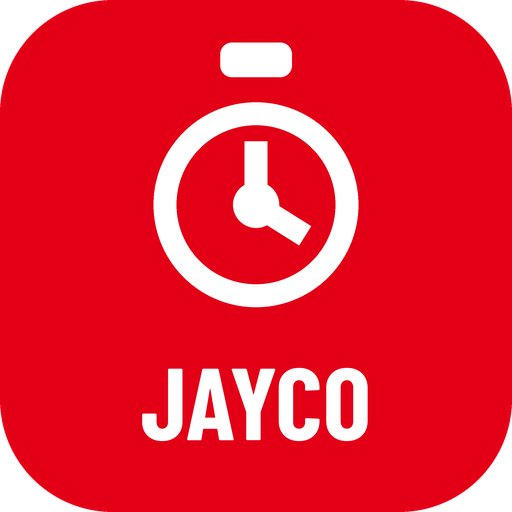
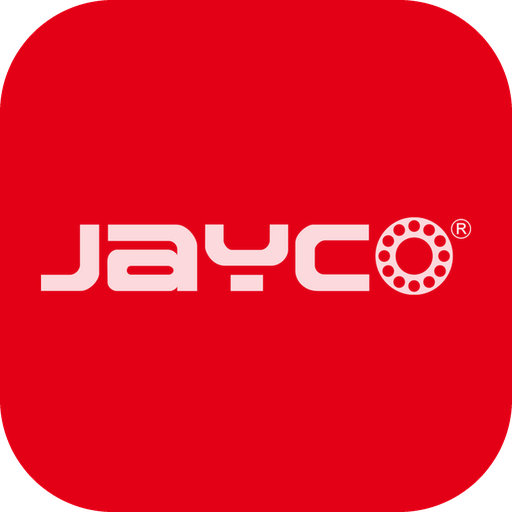
Add files via upload

Changed region(s): [[0.0625, 0.1875, 0.9375, 0.625], [0.25, 0.7188, 0.7188, 0.875], [0.4062, 0.0625, 0.5938, 0.1562]]

diff --git a/attendance.html b/attendance.html
@@ -48,7 +48,7 @@ h3{font-size:18px;margin:20px 0 8px;font-weight:600}
 .muted{color:var(--mute)}.small{font-size:13.5px}.err{color:var(--bad)}
 .wrap{max-width:560px;margin:0 auto;padding:18px 16px 110px}
 .top{position:sticky;top:0;z-index:5;background:var(--panel);display:flex;align-items:center;justify-content:space-between;gap:8px;padding:10px 16px;border-bottom:3px solid var(--red);box-shadow:0 2px 10px rgba(20,24,29,.05)}
-.brand{font-weight:700;font-size:28px;color:var(--red);letter-spacing:1.5px;line-height:1}
+.brand img{height:26px;width:auto;display:block}
 .brand small{display:block;color:var(--mute);font:500 13px var(--body);letter-spacing:0;margin-top:3px}
 .who{display:flex;gap:6px;flex-wrap:wrap;justify-content:flex-end}
 .chip{background:var(--panel);color:var(--ink);border:1px solid var(--line);border-radius:6px;padding:7px 11px;font:500 14px var(--body);cursor:pointer;text-decoration:none;display:inline-block}
@@ -128,7 +128,7 @@ tr.click{cursor:pointer}tr.click:hover td{background:#fafbfc}
 .work .muted{font-size:13px;display:block;margin-bottom:3px;white-space:normal}
 .authcard{max-width:440px;margin:0 auto;padding:24px 18px 60px}
 .authtop{display:flex;justify-content:space-between;align-items:flex-start}
-.hero-a{font-size:68px;line-height:.85;font-weight:700;color:var(--red);letter-spacing:3px}
+.hero-a img{width:200px;max-width:62vw;display:block}
 .seg{display:flex;border:1px solid var(--line);border-radius:8px;overflow:hidden;margin:18px 0;background:var(--panel)}
 .seg button{flex:1;padding:11px;background:none;border:0;color:var(--mute);font-size:18px;font-weight:600;cursor:pointer}
 .seg button.on{background:var(--red);color:#fff}
@@ -155,19 +155,28 @@ ol.help{padding-left:18px;margin:10px 0}
 .av{width:40px;height:40px;border-radius:50%;object-fit:cover;flex:none;background:var(--panel2)}
 .av.lg{width:88px;height:88px;border:3px solid var(--red)}
 .avrow{display:flex;gap:14px;align-items:center}
-@media (max-width:430px){.top{padding:8px 12px}.who{gap:4px;flex-wrap:nowrap}.who .chip{padding:6px 8px;font-size:13px}.brand{font-size:24px}}
+@media (max-width:430px){.top{padding:8px 12px}.who{gap:4px;flex-wrap:nowrap}.who .chip{padding:6px 8px;font-size:13px}.brand img{height:22px}}
 </style>
 </head>
 <body>
 <div id="app"></div>
 <div id="toast" role="status" aria-live="polite"></div>
 <script>
[1 lines of base64/hex data omitted]
+
 /* ============ CONFIG — edit these ============ */
 const CONFIG = {
   // Paste the firebaseConfig object from Firebase console here, e.g.
   // FIREBASE: { apiKey:"...", authDomain:"jayco-attendance.firebaseapp.com", projectId:"jayco-attendance", appId:"..." },
-  FIREBASE: null,
-  ADMIN_MOBILES: ['9999999999'],          // mobile numbers that get the Admin panel
+  FIREBASE: {
+    apiKey: "AIzaSyDpJYTyKGs_S4flJ1_8YeQ0eMahuMLglkc",
+    authDomain: "jayco-attendance.firebaseapp.com",
+    projectId: "jayco-attendance",
+    storageBucket: "jayco-attendance.firebasestorage.app",
+    messagingSenderId: "847137219439",
+    appId: "1:847137219439:web:939fd4f2e6aa3fe2187e9a"
+  },
+  ADMIN_MOBILES: ['9537254473'],          // mobile numbers that get the Admin panel
   EMAIL_DOMAIN: 'staff.jaycohousing.com', // internal login id = mobile@this-domain (no mail is sent)
   APP_URL: 'https://akashparjapati-jayco.github.io/jayco-portals/attendance.html'
 };
@@ -360,6 +369,7 @@ function errMsg(e) {
   if (c.includes('permission-denied')) return t('denied');
   if (c.includes('too-many-requests')) return t('tooMany');
   if (c.includes('weak-password')) return t('weak');
+  if (/api-key|app-deleted|invalid-api-key/.test(c)) return 'App setup error: the Firebase key is wrong. Send this message to the office.';
   return (e && e.message) || String(e);
 }
 function csv(name, rows) {
@@ -481,7 +491,7 @@ async function enter(u) {
     S.settings = { ...DEF, ...((await DB.settings()) || {}) };
   } catch (e) { toast(errMsg(e), 1); }
   if (!S.profile && !S.admin) {
-    $('#app').innerHTML = `<div class="authcard"><div class="hero-a">JAYCO</div><p class="err">${t('missingProfile')}</p><button class="btn" onclick="logout()">${t('logout')}</button></div>`;
+    $('#app').innerHTML = `<div class="authcard"><div class="hero-a"><img src="${LOGO}" alt="JAYCO"></div><p class="err">${t('missingProfile')}</p><button class="btn" onclick="logout()">${t('logout')}</button></div>`;
     return;
   }
   S.view = S.admin ? 'admin' : 'emp'; S.tab = 'today'; render();
@@ -492,7 +502,7 @@ function renderAuth() {
   clearInterval(S.timer);
   const reg = S.authMode === 'reg';
   $('#app').innerHTML = `<div class="authcard">
-    <div class="authtop"><div class="hero-a">JAYCO</div>${langChip()}</div>
+    <div class="authtop"><div class="hero-a"><img src="${LOGO}" alt="JAYCO"></div>${langChip()}</div>
     <div class="cond" style="font-size:22px;margin-top:6px">${t('appSub')}</div>
     ${!SECURE ? `<p class="warnbox small">${openLinkMsg()}</p>` : ''}
     ${DB === Local ? `<p class="warnbox small">${t('demo')}</p>` : ''}
@@ -607,7 +617,7 @@ async function doRegister() {
 function header() {
   const sw = S.admin && S.profile ? `<button class="chip" onclick="switchView()">${S.view === 'admin' ? t('myPunch') : t('admin')}</button>` : '';
   const sub = S.view === 'admin' ? t('adminPanel') : esc(fullName(S.profile));
-  return `<header class="top"><div class="brand">JAYCO<small>${sub}</small></div><div class="who">${langChip()}${sw}<button class="chip" onclick="logout()">${t('logout')}</button></div></header>`;
+  return `<header class="top"><div class="brand"><img src="${LOGO}" alt="JAYCO"><small>${sub}</small></div><div class="who">${langChip()}${sw}<button class="chip" onclick="logout()">${t('logout')}</button></div></header>`;
 }
 function switchView() { S.view = S.view === 'admin' ? 'emp' : 'admin'; S.tab = 'today'; render(); }
 function go(k) { S.tab = k; render(); window.scrollTo(0, 0); }
